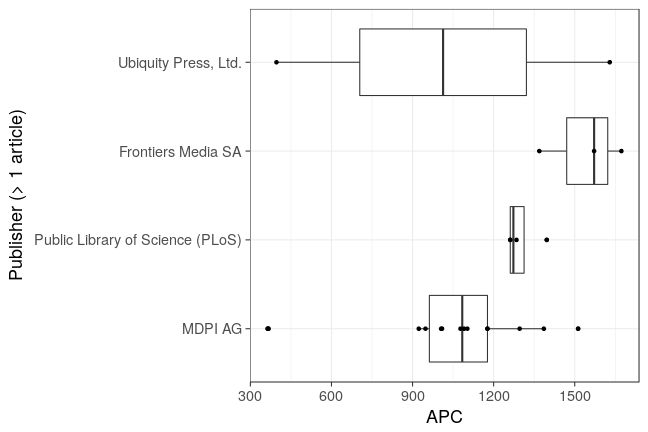
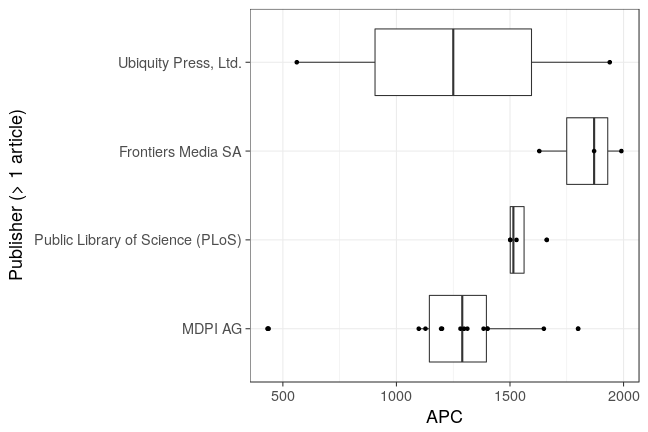
tu berlin: cost data updated

diff --git a/_posts/2018-01-30-tuberlin.md b/_posts/2018-01-30-tuberlin.md
@@ -23,24 +23,24 @@ Contact Person is [Steffi Grimm](mailto:steffi.grimm@tu-berlin.de).
 
 
 
-The first dataset provided by the TU covers publication fees for 30 articles. Total expenditure amounts to 34 171€ and the average fee is 1 139€.
+The first dataset provided by the TU covers publication fees for 30 articles. Total expenditure amounts to 40 074€ and the average fee is 1 336€.
 
 The following table shows the payments the TU Berlin University Library has made to publishers in 2017.
 
 
 |                                                 | Articles| Fees paid in EURO| Mean Fee paid|
 |:------------------------------------------------|--------:|-----------------:|-------------:|
-|MDPI AG                                          |       14|             14436|          1031|
-|Public Library of Science (PLoS)                 |        4|              5204|          1301|
-|Frontiers Media SA                               |        3|              4613|          1538|
-|Ubiquity Press, Ltd.                             |        2|              2026|          1013|
-|AIP Publishing                                   |        1|              1113|          1113|
+|MDPI AG                                          |       14|             17019|          1216|
+|Public Library of Science (PLoS)                 |        4|              6193|          1548|
+|Frontiers Media SA                               |        3|              5490|          1830|
+|Ubiquity Press, Ltd.                             |        2|              2500|          1250|
+|AIP Publishing                                   |        1|              1325|          1325|
 |BMJ                                              |        1|              1425|          1425|
-|Cambridge University Press (CUP)                 |        1|               439|           439|
-|Copernicus GmbH                                  |        1|              1200|          1200|
-|Hindawi Publishing Corporation                   |        1|              1486|          1486|
-|Mechanical Engineering Faculty in Slavonski Brod |        1|               603|           603|
-|Springer Nature                                  |        1|              1626|          1626|
+|Cambridge University Press (CUP)                 |        1|               634|           634|
+|Copernicus GmbH                                  |        1|              1067|          1067|
+|Hindawi Publishing Corporation                   |        1|              1768|          1768|
+|Mechanical Engineering Faculty in Slavonski Brod |        1|               718|           718|
+|Springer Nature                                  |        1|              1934|          1934|
 
 ## Overview
 
